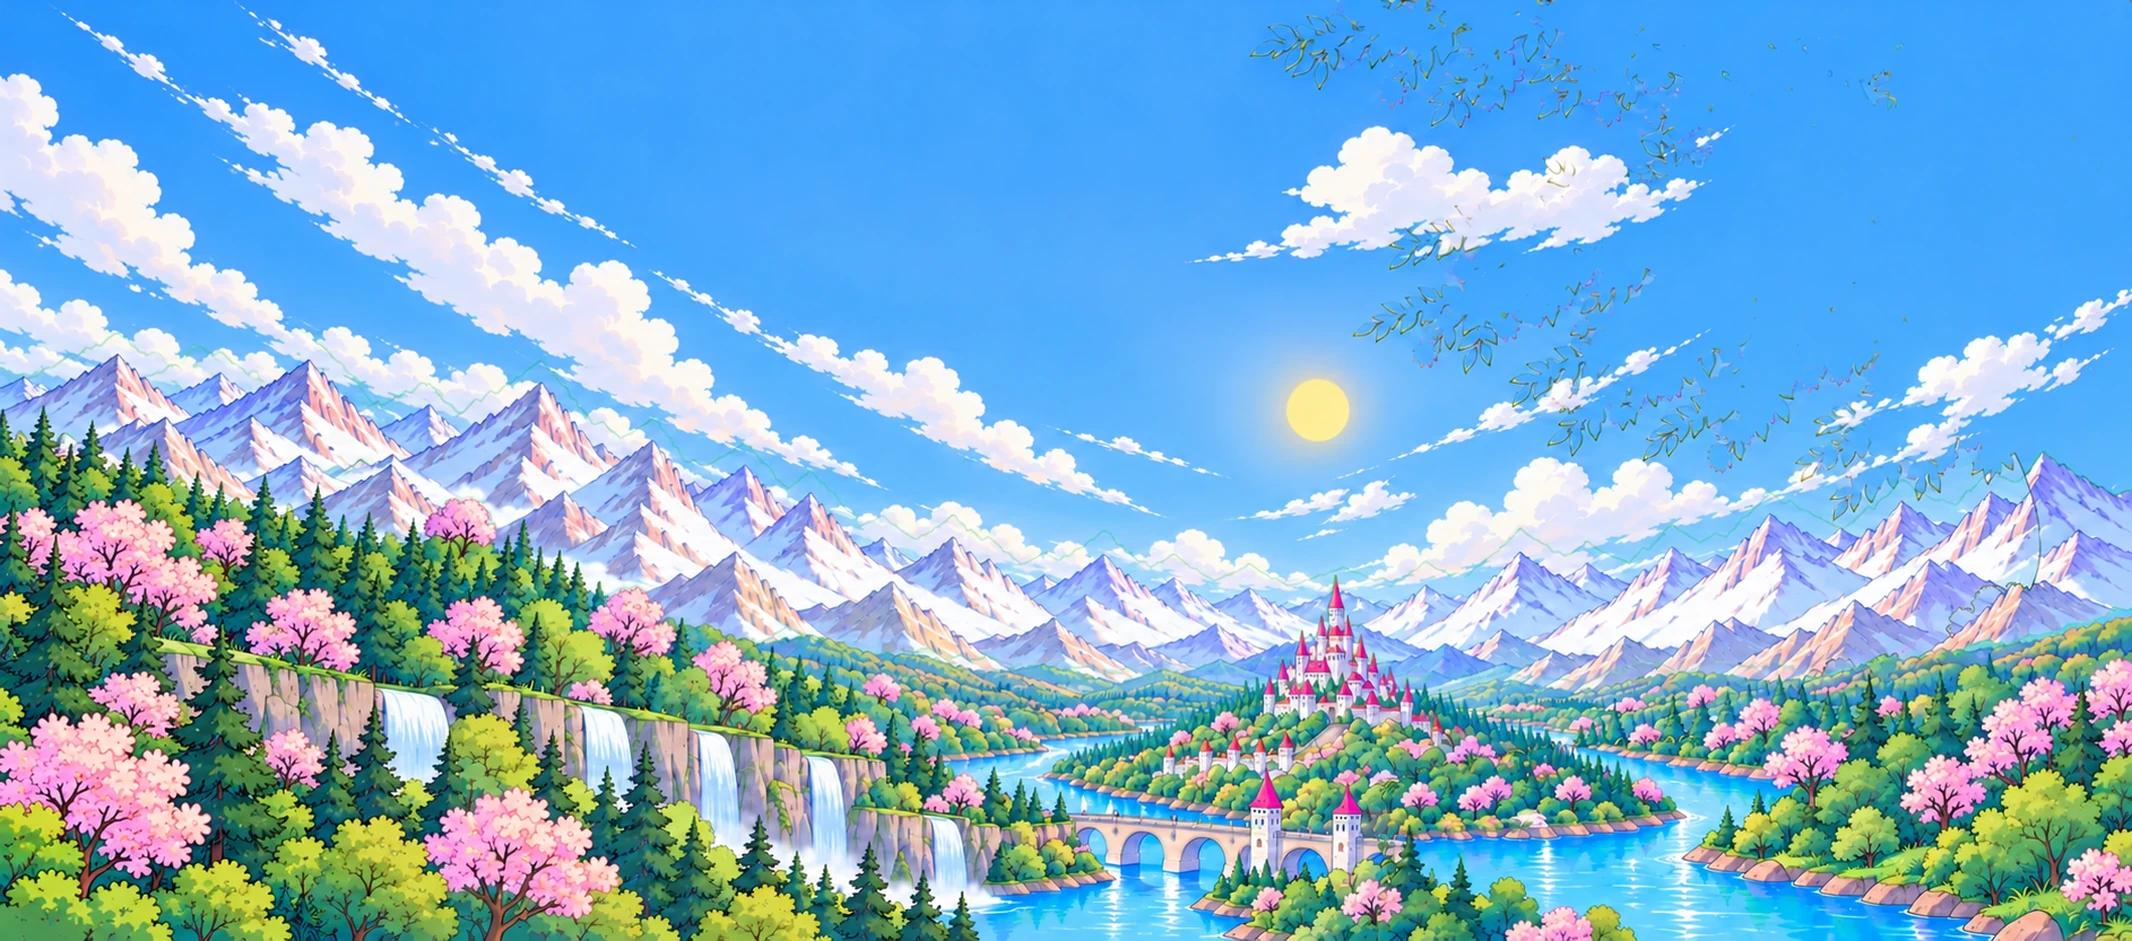
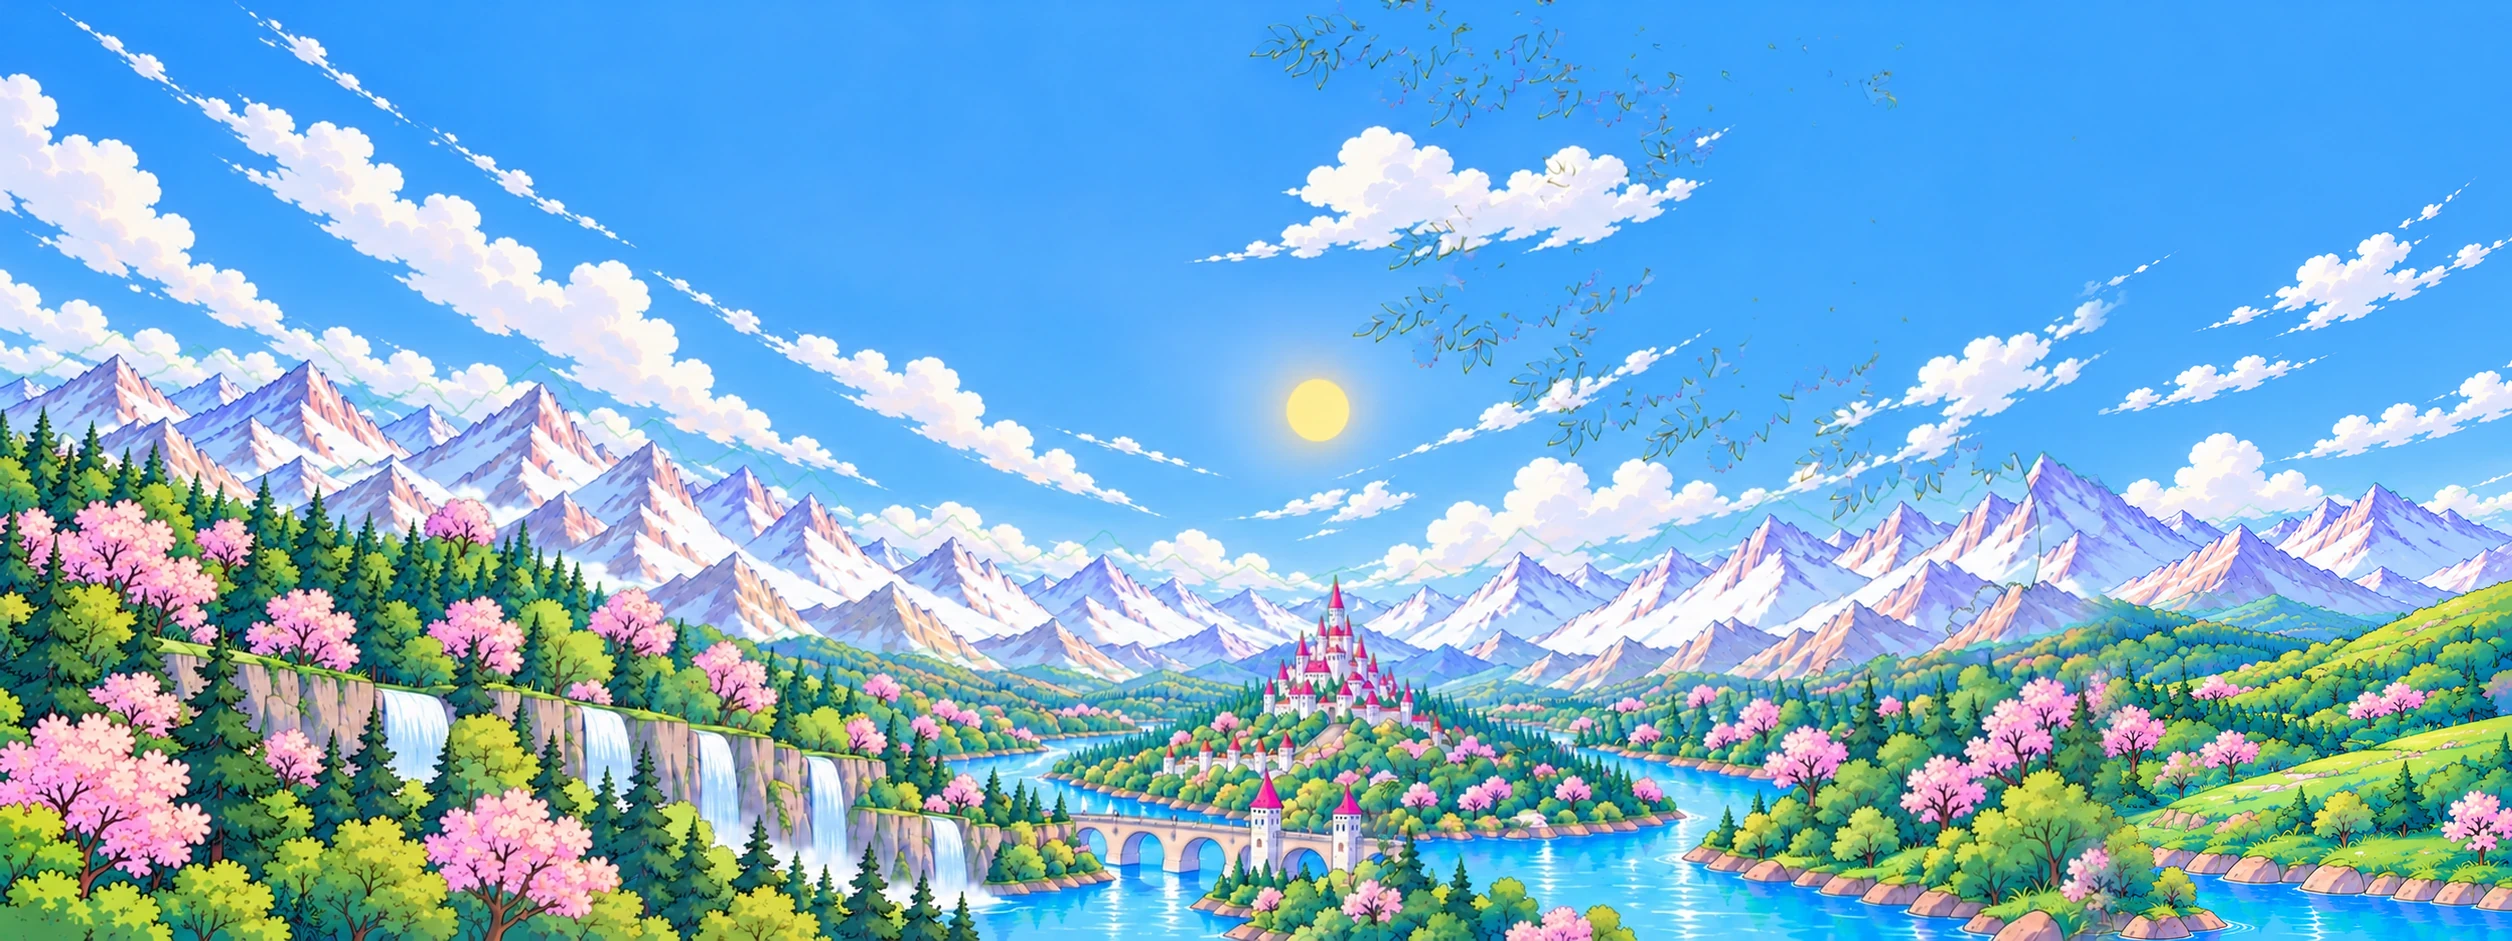
Portada ampliada a los dos lados: el árbol con su tronco ancho completo a la derecha, más paisaje a la izquierda, dragón y mago corridos a la izquierda en su tamaño, castillo y luna al centro

diff --git a/fondo-acuarela.js b/fondo-acuarela.js
@@ -12,7 +12,9 @@
    para cambiar de escena con un fundido (las imágenes de cada modo se cargan al usarse).
    ========================================================================== */
 window.FondoAcuarela = (() => {
-  const W = 1672, H = 941;                         // marco común de todas las capas
+  const W = 1672, H = 941;                         // el dibujo original (las rutas del hada y las manchas se miden en él)
+  const IZQ = 460, DER = 380, WL = W + DER;         // el paisaje continúa IZQ px a la izquierda y DER px a la derecha (el árbol ancho)
+  const CASTILLO = 800;   // entre la luna (700) y el castillo (861): los dos quedan al centro de la pantalla                             // x del castillo en el dibujo: queda al centro de la pantalla, bajo la luna (o el sol)
   const DURACION = 13;                             // segundos de la animación de pintado (desde el lineart)
   const TRAZO = 5.2;                               // segundos previos: el hada dibuja el lineart sobre la hoja en blanco
 
@@ -27,8 +29,8 @@ window.FondoAcuarela = (() => {
     { id: '01-cielo', prof: .05 },
     { id: '02-cordillera', prof: .15 },
     { id: '03-valle', prof: .3 },
-    { id: '04-dragon', prof: .42, flota: [1.3, 7], figura: true, aura: [1.1, 0] },
-    { id: '05-mago', prof: .55, flota: [1.7, 9], figura: true, aura: [1.5, 1.3] },
+    { id: '04-dragon', prof: .42, flota: [1.3, 7], figura: true, aura: [1.1, 0], corre: true },   // corre: el dragón y el mago, más a la izquierda (mismo tamaño)
+    { id: '05-mago', prof: .55, flota: [1.7, 9], figura: true, aura: [1.5, 1.3], corre: true },
     { id: '06-primer-plano', prof: .85, aura: [.8, 2.4] },        // el árbol
     { id: '07-pareja', prof: 1, figura: true, aura: [1.3, 3.6] }
   ];
@@ -109,7 +111,7 @@ window.FondoAcuarela = (() => {
   // ---------------------------------------------------------- carga
   // un juego de imágenes por modo; img apunta al que se dibuja
   const juegos = {}; let img = null, hada = null, listos = false;
-  const tmp = lienzo(W, H);
+  const tmp = lienzo(WL, H);
   const cargar = src => new Promise((ok, mal) => { const i = new Image(); i.onload = () => ok(i); i.onerror = () => mal(new Error(src)); i.src = src; });
   // el lineart de las figuras es común a los dos modos; el paisaje trae el suyo (sol o luna)
   const VER = '?v=3';                            // fondo redibujado: dragón azul/blanco, techos fucsia y personajes corregidos
@@ -126,14 +128,19 @@ window.FondoAcuarela = (() => {
     await Promise.all(CAPAS.map(async c => {
       const [lin, acu] = await Promise.all(['lineart', 'acuarela'].map(e => cargar(ruta(tema, c, e))));
       // lineart en blanco y negro, ajustado al marco común; se calcula una sola vez
-      const bn = lienzo(W, H), g = bn.getContext('2d'); g.filter = 'grayscale(1) contrast(1.25) brightness(1.06)'; g.drawImage(lin, 0, 0, W, H);
-      const co = lienzo(W, H); co.getContext('2d').drawImage(acu, 0, 0, W, H);
+      const bn = lienzo(WL, H), g = bn.getContext('2d'); g.filter = 'grayscale(1) contrast(1.25) brightness(1.06)'; g.drawImage(lin, 0, 0, W, H);
+      const co = lienzo(WL, H); co.getContext('2d').drawImage(acu, 0, 0, W, H);
+      if (c.id === '06-primer-plano') {   // el árbol sigue a la derecha: su tronco ancho completo
+        const [ea, el] = await Promise.all(['acuarela', 'lineart'].map(e => cargar(`assets/fondo/reino/${e === 'lineart' ? 'comun' : tema}/06-arbol-der-${e}.webp${VER}`).catch(() => null)));
+        if (ea) co.getContext('2d').drawImage(ea, W - 80, 0, DER + 80, H);
+        if (el) g.drawImage(el, W - 80, 0, DER + 80, H);
+      }
       if (FONDO.includes(CAPAS.indexOf(c))) {   // el borde izquierdo del paisaje se funde con su continuación ancha (sin costura)
         [co.getContext('2d'), g].forEach(x => { x.save(); x.filter = 'none'; x.globalCompositeOperation = 'destination-out'; const gr = x.createLinearGradient(0, 0, 70, 0); gr.addColorStop(0, '#000'); gr.addColorStop(1, 'rgba(0,0,0,0)'); x.fillStyle = gr; x.fillRect(0, 0, 70, H); x.restore(); });
       }
       // aura de energía de la figura: un halo con sus propios colores que late suave
       const aura = c.aura ? await cargar(`assets/fondo/reino/${tema}/${c.id}-aura.webp${VER}`).catch(() => null) : null;
-      juego[c.id] = { bn, co, aura, mascara: lienzo(W / 2, H / 2), capa: lienzo(W, H) };
+      juego[c.id] = { bn, co, aura, mascara: lienzo(WL / 2, H / 2), capa: lienzo(WL, H) };
     }));
     // la escena entera, chica y difuminada, para rellenar los bordes cuando la pantalla no tiene su misma proporción
     const chica = lienzo(W / 8, H / 8), cg = chica.getContext('2d');
@@ -170,13 +177,16 @@ window.FondoAcuarela = (() => {
   function encuadre(cw, ch) {
     // la escena cubre toda la pantalla (también detrás de la barra), sin franjas difuminadas arriba ni abajo
     // const k = Math.max(cw / W, ch / H) * 1.045;   // antes: todo cubría la pantalla y en pantallas anchas se cortaban las alas y el risco
-    if (cw / W <= ch / H) { const k = Math.max(cw / W, ch / H) * 1.045; return { k, ox: (cw - W * k) / 2, oy: (ch - H * k) / 2 }; }
-    // pantalla más ancha que el dibujo: la composición entera (todas las capas, misma escala y posición) del alto de la pantalla,
-    // pegada a la derecha; a la izquierda continúa el paisaje ancho (capa «ancho», pintada en el mismo estilo)
-    const k = ch / H * 1.03;
-    return { k, ox: Math.min(cw - W * k * .99, ANCHO_EXTRA * k), oy: (ch - H * k) / 2 };
+    // el dibujo con su paisaje ancho (de -IZQ a W + DER) del alto de la pantalla; el castillo al centro (bajo la luna o el sol)
+    const AT = IZQ + WL;
+    let k = ch / H * 1.06; if (AT * k < cw) k = cw / AT;   // un poco más alto que la pantalla: el parallax nunca deja ver el borde de arriba del árbol
+    const ox = Math.min(IZQ * k, Math.max(cw - WL * k, cw / 2 - CASTILLO * k));
+    // el dragón y el mago se corren a la izquierda solo lo que deja la pantalla (sus alas nunca se cortan)
+    corrido = Math.max(0, Math.min(220, (ox - 12) / k + 65));
+    return { k, ox, oy: (ch - H * k) / 2 };
   }
-  const ANCHO_EXTRA = 460;                          // px del paisaje ancho a la izquierda del dibujo
+  let corrido = 220;                                // cuánto se corren el dragón y el mago (px del dibujo)
+  const ANCHO_EXTRA = IZQ;                          // px del paisaje ancho a la izquierda del dibujo
   const marcoDe = (i, cw, ch) => encuadre(cw, ch);   // todas las capas en el mismo marco (antes cada una tenía el suyo y se deformaba la composición)
   /* versión anterior (escena entera bajo la barra, bordes rellenos con la escena difuminada):
   function encuadre(cw, ch) {
@@ -196,8 +206,8 @@ window.FondoAcuarela = (() => {
 
   // la continuación del paisaje a la izquierda del dibujo (se mueve con la cordillera en el parallax)
   function pintarAncho(ctx, cw, ch, k, ox, oy, mx, my, a) {
-    if (!img.ancho || ox <= 1 || a <= 0) return;
-    const prof = CAPAS[1].prof, dx = -mx * DESPLAZA * prof, dy = -my * DESPLAZA * prof, AW = W + ANCHO_EXTRA;
+    if (!img.ancho || a <= 0) return;
+    const prof = CAPAS[1].prof, dx = -mx * DESPLAZA * prof, dy = -my * DESPLAZA * prof, AW = WL + ANCHO_EXTRA;
     ctx.globalAlpha = a; ctx.drawImage(img.ancho, ox + (dx - ANCHO_EXTRA) * k, oy + dy * k, AW * k, H * k); ctx.globalAlpha = 1;
   }
   function pintar(ctx, t, px = 0, py = 0) {
@@ -211,7 +221,7 @@ window.FondoAcuarela = (() => {
     ctx.fillStyle = '#f4f1ea'; ctx.fillRect(0, 0, cw, ch);
     rellenar(ctx, cw, ch, suave((t - HECHIZO) / 1.6));   // el borde se tiñe junto con el cielo
     pintarAncho(ctx, cw, ch, k, ox, oy, mx, my, t < DURACION ? suave((t - HECHIZO) / 1.6) : 1);
-    if (t < DURACION && img.anchoLin && ox > 1) {   // mientras se pinta, el lado ancho sigue en lineart hasta que llega el hechizo de la luna
+    if (t < DURACION && img.anchoLin) {   // mientras se pinta, el lado ancho sigue en lineart hasta que llega el hechizo de la luna
       const pr = CAPAS[1].prof; ctx.globalAlpha = 1 - suave((t - HECHIZO) / 1.6);
       ctx.drawImage(img.anchoLin, ox - (ANCHO_EXTRA + mx * DESPLAZA * pr) * k, oy - my * DESPLAZA * pr * k, (ANCHO_EXTRA + 70) * k, H * k); ctx.globalAlpha = 1;
     }
@@ -220,8 +230,8 @@ window.FondoAcuarela = (() => {
       const energia = suave((t - DURACION) / 2.5) * (img.tema === 'dia' ? .38 : .72);
       CAPAS.forEach((c, i) => {
         const dx = -mx * DESPLAZA * c.prof, dy = -my * DESPLAZA * c.prof + (c.flota ? Math.sin(t * c.flota[0] + i) * c.flota[1] : 0);
-        const M = marcoDe(i, cw, ch), x = M.ox + dx * M.k, y = M.oy + dy * M.k, I = img[c.id];
-        ctx.drawImage(I.co, x, y, W * M.k, H * M.k);
+        const M = marcoDe(i, cw, ch), x = M.ox + (dx + (c.corre ? -corrido : 0)) * M.k, y = M.oy + dy * M.k, I = img[c.id];
+        ctx.drawImage(I.co, x, y, WL * M.k, H * M.k);
         if (i === 1 && img.niebla) {   // la neblina se desliza lento sobre la cordillera
           ctx.globalAlpha = suave((t - DURACION) / 3) * (.75 + .25 * Math.sin(t * .35));
           const deriva = Math.sin(t * .07) * 40 * M.k;
@@ -251,22 +261,23 @@ window.FondoAcuarela = (() => {
       if (asentado > 0) { g.globalAlpha = asentado; g.fillStyle = '#000'; g.fillRect(0, 0, m.width, m.height); g.globalAlpha = 1; }
       // color: la acuarela recortada por la máscara
       const tg = tmp.getContext('2d');
-      tg.globalCompositeOperation = 'source-over'; tg.clearRect(0, 0, W, H);
-      tg.drawImage(I.co, 0, 0); tg.globalCompositeOperation = 'destination-in'; tg.drawImage(m, 0, 0, W, H);
+      tg.globalCompositeOperation = 'source-over'; tg.clearRect(0, 0, WL, H);
+      tg.drawImage(I.co, 0, 0); tg.globalCompositeOperation = 'destination-in'; tg.drawImage(m, 0, 0, WL, H);
       // lineart: se retira con la máscara complementaria y desaparece del todo al asentarse el color
       const capa = I.capa, cg = capa.getContext('2d');
-      cg.globalCompositeOperation = 'source-over'; cg.clearRect(0, 0, W, H);
+      cg.globalCompositeOperation = 'source-over'; cg.clearRect(0, 0, WL, H);
       cg.globalAlpha = 1 - asentado; cg.drawImage(I.bn, 0, 0); cg.globalAlpha = 1;
-      cg.globalCompositeOperation = 'destination-out'; cg.drawImage(m, 0, 0, W, H);
+      cg.globalCompositeOperation = 'destination-out'; cg.drawImage(m, 0, 0, WL, H);
       cg.globalCompositeOperation = 'source-over'; cg.drawImage(tmp, 0, 0);
       const dx = -mx * DESPLAZA * c.prof, dy = -my * DESPLAZA * c.prof + (c.flota ? Math.sin(t * c.flota[0] + i) * c.flota[1] : 0);
-      const M = marcoDe(i, cw, ch); ctx.drawImage(capa, M.ox + dx * M.k, M.oy + dy * M.k, W * M.k, H * M.k);
+      const M = marcoDe(i, cw, ch); ctx.drawImage(capa, M.ox + (dx + (c.corre ? -corrido : 0)) * M.k, M.oy + dy * M.k, WL * M.k, H * M.k);
     });
 
     // el hada vuela sobre la capa que está pintando
     if (t < 12.6) {
       const prof = v.mezcla !== undefined ? CAPAS[v.desde].prof + (CAPAS[v.capa].prof - CAPAS[v.desde].prof) * v.mezcla : CAPAS[v.capa].prof;
-      const dx = -mx * DESPLAZA * prof, dy = -my * DESPLAZA * prof;
+      const d0 = v.mezcla !== undefined ? (CAPAS[v.desde].corre ? -corrido : 0) + ((CAPAS[v.capa].corre ? -corrido : 0) - (CAPAS[v.desde].corre ? -corrido : 0)) * v.mezcla : (CAPAS[v.capa].corre ? -corrido : 0);
+      const dx = -mx * DESPLAZA * prof + d0, dy = -my * DESPLAZA * prof;
       const H0 = marcoDe(v.capa, cw, ch), { k, ox, oy } = H0;   // el hada en el marco de la capa que pinta
       const tx = ox + (v.p[0] + dx) * k, ty = oy + (v.p[1] + dy) * k, e = HADA_ESC * k;
       // estela de destellos: se calcula desde el tiempo, sin estado
@@ -294,24 +305,24 @@ window.FondoAcuarela = (() => {
 
   // ---------------------------------------------------------- el trazo: la hoja en blanco se llena de línea
   // recorrido en zigzag que cubre todo el cuadro y termina donde el hada empieza a pintar (fuera, a la derecha)
-  const RUTA_TRAZO = curva([[W + 140, 120], [1420, 140], [980, 110], [520, 170], [110, 150], [180, 340], [620, 300], [1080, 360], [1540, 330], [1500, 540], [1020, 580], [560, 520], [120, 600], [210, 820], [700, 860], [1160, 800], [1560, 880], [W + 140, 760]]);
+  const RUTA_TRAZO = curva([[WL + 140, 120], [1420, 140], [980, 110], [520, 170], [110, 150], [180, 340], [620, 300], [1080, 360], [1540, 330], [1500, 540], [1020, 580], [560, 520], [120, 600], [210, 820], [700, 860], [1160, 800], [1560, 880], [WL + 140, 760]]);
   const marcasTrazo = (() => { const lista = [], rr = azar(31), pasos = Math.ceil(RUTA_TRAZO.total / 95); for (let i = 0; i <= pasos; i++) { const f = i / pasos, [x, y] = RUTA_TRAZO.en(f); lista.push({ x: x + (rr() - .5) * 50, y: y + (rr() - .5) * 50, R: 250 + rr() * 90, nace: .35 + f * (TRAZO - 1), v: rr() * 4 | 0 }); } return lista; })();
-  const mascaraTrazo = lienzo(W / 2, H / 2), lineaTrazo = lienzo(W, H);
+  const mascaraTrazo = lienzo(WL / 2, H / 2), lineaTrazo = lienzo(WL, H);
   function trazar(ctx, t, px, py) {
     if (!listos) return;
     const cw = ctx.canvas.width, ch = ctx.canvas.height, { k, ox, oy } = encuadre(cw, ch);
     ctx.fillStyle = '#f4f1ea'; ctx.fillRect(0, 0, cw, ch);
     // la máscara crece por donde pasa la varita; al final el lineart queda completo
-    const g = mascaraTrazo.getContext('2d'); g.clearRect(0, 0, W / 2, H / 2);
+    const g = mascaraTrazo.getContext('2d'); g.clearRect(0, 0, WL / 2, H / 2);
     for (const m of marcasTrazo) { if (t < m.nace) continue; const Rm = m.R * (.3 + .7 * suave((t - m.nace) / .5)) / 2; g.drawImage(sellos[m.v], m.x / 2 - Rm, m.y / 2 - Rm, Rm * 2, Rm * 2); }
-    const listo = suave((t - (TRAZO - .7)) / .6); if (listo > 0) { g.globalAlpha = listo; g.fillRect(0, 0, W / 2, H / 2); g.globalAlpha = 1; }
-    if (img.anchoLin && ox > 1) { ctx.save(); ctx.globalAlpha = suave(t / (TRAZO * .5)); const pr = CAPAS[1].prof; ctx.drawImage(img.anchoLin, ox - (ANCHO_EXTRA + px * 38 * pr) * k, oy - py * 38 * pr * k, (ANCHO_EXTRA + 70) * k, H * k); ctx.restore(); }
+    const listo = suave((t - (TRAZO - .7)) / .6); if (listo > 0) { g.globalAlpha = listo; g.fillRect(0, 0, WL / 2, H / 2); g.globalAlpha = 1; }
+    if (img.anchoLin) { ctx.save(); ctx.globalAlpha = suave(t / (TRAZO * .5)); const pr = CAPAS[1].prof; ctx.drawImage(img.anchoLin, ox - (ANCHO_EXTRA + px * 38 * pr) * k, oy - py * 38 * pr * k, (ANCHO_EXTRA + 70) * k, H * k); ctx.restore(); }
     const lg = lineaTrazo.getContext('2d');
     CAPAS.forEach((c, i) => {
       const M = marcoDe(i, cw, ch);
-      lg.globalCompositeOperation = 'source-over'; lg.clearRect(0, 0, W, H); lg.drawImage(img[c.id].bn, 0, 0);
-      lg.globalCompositeOperation = 'destination-in'; lg.drawImage(mascaraTrazo, 0, 0, W, H); lg.globalCompositeOperation = 'source-over';
-      ctx.drawImage(lineaTrazo, M.ox - px * 38 * c.prof * M.k, M.oy - py * 38 * c.prof * M.k, W * M.k, H * M.k);
+      lg.globalCompositeOperation = 'source-over'; lg.clearRect(0, 0, WL, H); lg.drawImage(img[c.id].bn, 0, 0);
+      lg.globalCompositeOperation = 'destination-in'; lg.drawImage(mascaraTrazo, 0, 0, WL, H); lg.globalCompositeOperation = 'source-over';
+      ctx.drawImage(lineaTrazo, M.ox + ((c.corre ? -corrido : 0) - px * 38 * c.prof) * M.k, M.oy - py * 38 * c.prof * M.k, WL * M.k, H * M.k);
     });
     // el hada con su varita al frente del trazo, dejando destellos
     const f = Math.min(1, t / TRAZO), p = RUTA_TRAZO.en(f), e = HADA_ESC * k;

diff --git a/index.html b/index.html
@@ -45,7 +45,7 @@
   <script src="tetris.js?v=20261030a" defer></script>
   <script src="app.js?v=20261028p" defer></script>
   <script src="magia.js?v=20261002a" defer></script>
-  <script src="fondo-acuarela.js?v=20261030x" defer></script>
+  <script src="fondo-acuarela.js?v=20261031c" defer></script>
   <script src="secciones.js?v=20261017c" defer></script>
   <script src="datos-salud.js?v=20261027c" defer></script>
   <script src="tableros-vivos.js?v=20261028c" defer></script>
